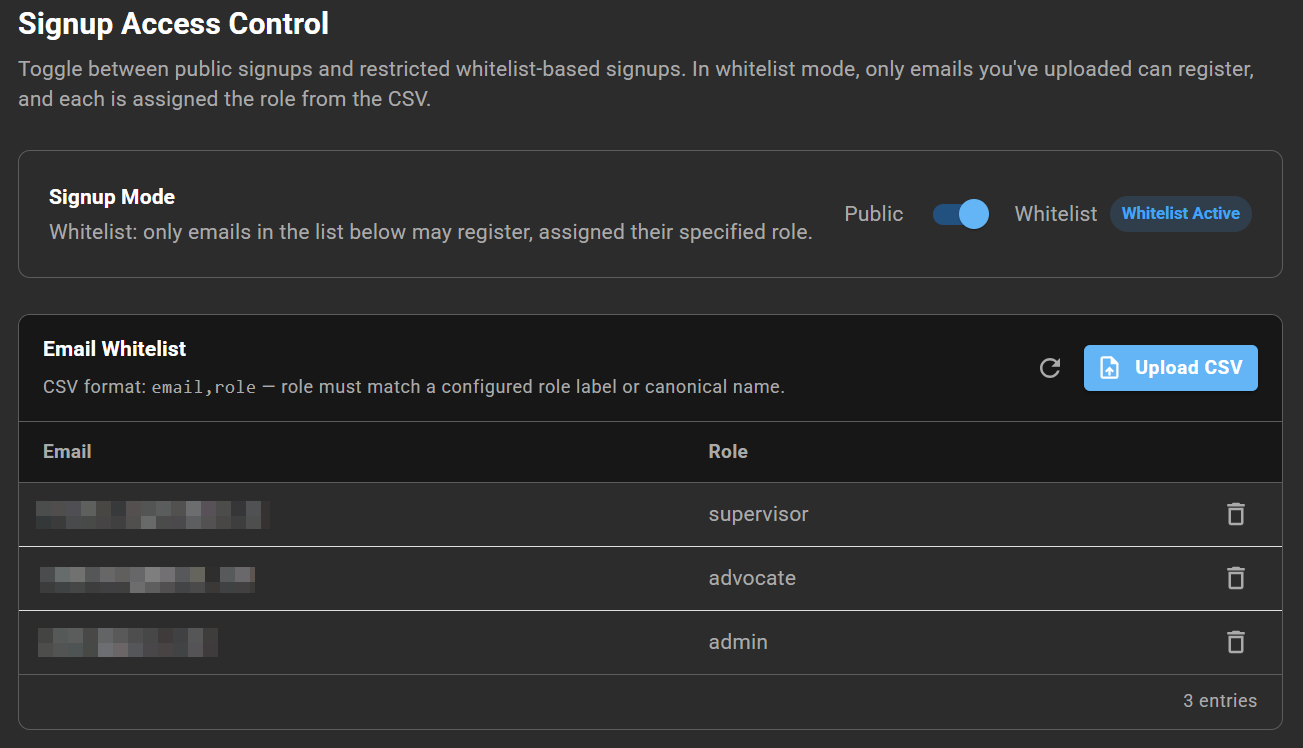
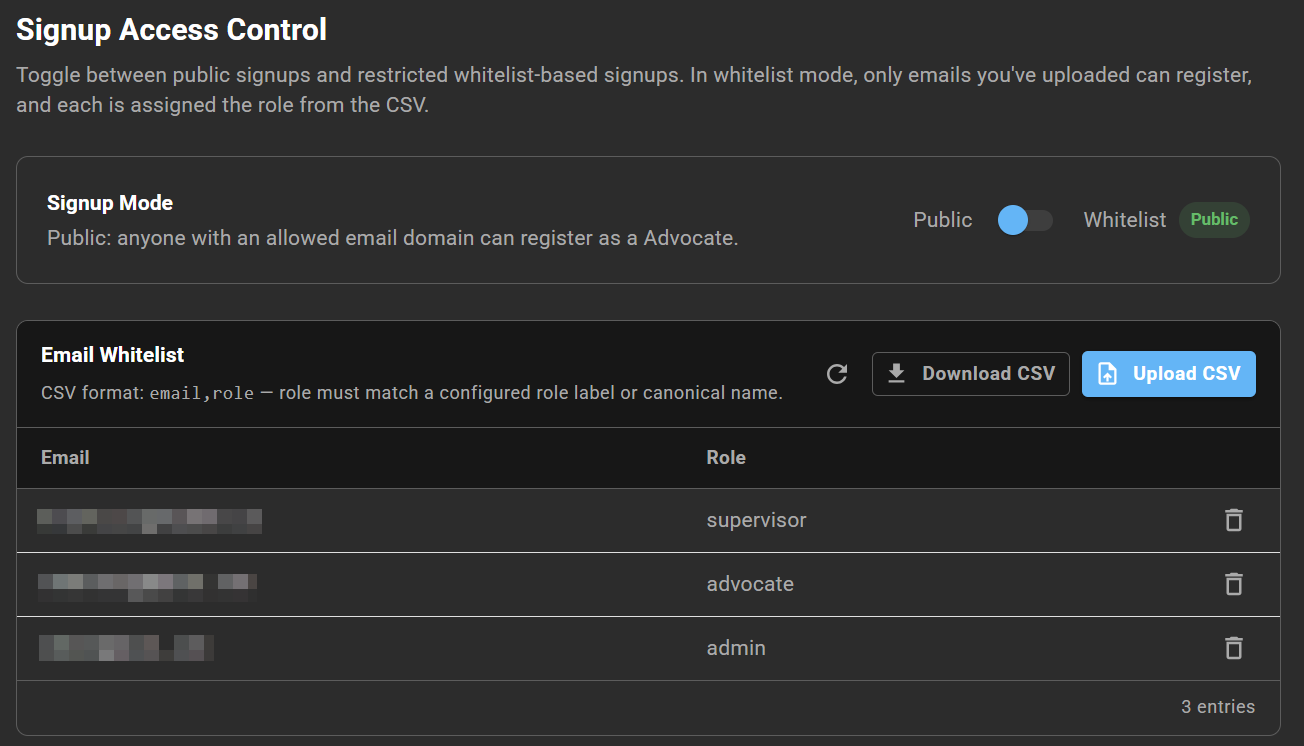
download csv

diff --git a/frontend/src/pages/Admin/AdminWhitelist.tsx b/frontend/src/pages/Admin/AdminWhitelist.tsx
@@ -21,7 +21,9 @@ import {
 } from "@mui/material";
 import DeleteOutlineIcon from "@mui/icons-material/DeleteOutline";
 import UploadFileIcon from "@mui/icons-material/UploadFile";
+import DownloadIcon from "@mui/icons-material/Download";
 import RefreshIcon from "@mui/icons-material/Refresh";
+import TablePagination from "@mui/material/TablePagination";
 import AdminHeader from "../../components/AdminHeader";
 import { fetchAuthSession } from "aws-amplify/auth";
 
@@ -50,6 +52,10 @@ const AdminWhitelist = () => {
     severity: "success" | "error" | "warning";
   }>({ open: false, message: "", severity: "success" });
   const fileInputRef = useRef<HTMLInputElement>(null);
+
+  const PAGE_THRESHOLD = 50;
+  const ROWS_PER_PAGE = 25;
+  const [page, setPage] = useState(0);
 
   const getToken = async () => {
     const session = await fetchAuthSession();
@@ -117,6 +123,7 @@ const AdminWhitelist = () => {
       );
       const data = await res.json();
       setEntries(data.entries || []);
+      setPage(0);
     } catch (err) {
       console.error("Failed to load whitelist:", err);
     } finally {
@@ -211,6 +218,20 @@ const AdminWhitelist = () => {
     fetchSignupMode();
     fetchWhitelist();
   }, [fetchSignupMode, fetchWhitelist]);
+
+  const handleDownloadCsv = () => {
+    if (entries.length === 0) return;
+    const header = "email,role";
+    const rows = entries.map((e) => `${e.email},${e.uploaded_label || e.canonical_role}`);
+    const csv = [header, ...rows].join("\n");
+    const blob = new Blob([csv], { type: "text/csv;charset=utf-8;" });
+    const url = URL.createObjectURL(blob);
+    const a = document.createElement("a");
+    a.href = url;
+    a.download = `whitelist-${new Date().toISOString().slice(0, 10)}.csv`;
+    a.click();
+    URL.revokeObjectURL(url);
+  };
 
   const roleColor = (role: string) => {
     switch (role) {
@@ -362,6 +383,23 @@ const AdminWhitelist = () => {
                   style={{ display: "none" }}
                   onChange={handleFileChange}
                 />
+                {entries.length > 0 && (
+                  <Button
+                    variant="outlined"
+                    size="small"
+                    startIcon={<DownloadIcon />}
+                    onClick={handleDownloadCsv}
+                    sx={{
+                      color: "var(--text-secondary)",
+                      borderColor: "var(--border)",
+                      textTransform: "none",
+                      fontWeight: "bold",
+                      "&:hover": { borderColor: "var(--text-secondary)" },
+                    }}
+                  >
+                    Download CSV
+                  </Button>
+                )}
                 <Button
                   variant="contained"
                   size="small"
@@ -416,7 +454,10 @@ const AdminWhitelist = () => {
                       </TableCell>
                     </TableRow>
                   ) : (
-                    entries.map((entry) => {
+                    (entries.length > PAGE_THRESHOLD
+                      ? entries.slice(page * ROWS_PER_PAGE, page * ROWS_PER_PAGE + ROWS_PER_PAGE)
+                      : entries
+                    ).map((entry) => {
                       const { bg, fg } = roleColor(entry.canonical_role);
                       return (
                         <TableRow
@@ -458,7 +499,20 @@ const AdminWhitelist = () => {
 
             {/* Footer */}
             {entries.length > 0 && (
-              <Box sx={{ p: 1.5, borderTop: "1px solid var(--border)", display: "flex", justifyContent: "flex-end" }}>
+              <Box sx={{ p: 1.5, borderTop: "1px solid var(--border)", display: "flex", justifyContent: "space-between", alignItems: "center" }}>
+                {entries.length > PAGE_THRESHOLD ? (
+                  <TablePagination
+                    component="div"
+                    count={entries.length}
+                    page={page}
+                    onPageChange={(_e, newPage) => setPage(newPage)}
+                    rowsPerPage={ROWS_PER_PAGE}
+                    rowsPerPageOptions={[ROWS_PER_PAGE]}
+                    sx={{ color: "var(--text-secondary)", "& .MuiTablePagination-toolbar": { minHeight: 36 } }}
+                  />
+                ) : (
+                  <Box />
+                )}
                 <Typography variant="caption" sx={{ color: "var(--text-secondary)" }}>
                   {entries.length} {entries.length === 1 ? "entry" : "entries"}
                 </Typography>

diff --git a/frontend/src/components/Admin/SignupAccessConfig.tsx b/frontend/src/components/Admin/SignupAccessConfig.tsx
@@ -22,6 +22,8 @@ import {
 import DeleteOutlineIcon from "@mui/icons-material/DeleteOutline";
 import UploadFileIcon from "@mui/icons-material/UploadFile";
 import RefreshIcon from "@mui/icons-material/Refresh";
+import DownloadIcon from "@mui/icons-material/Download";
+import TablePagination from "@mui/material/TablePagination";
 import { fetchAuthSession } from "aws-amplify/auth";
 import { useRoleLabels } from "../../contexts/RoleLabelsContext";
 
@@ -52,6 +54,10 @@ const SignupAccessConfig = () => {
     severity: "success" | "error" | "warning";
   }>({ open: false, message: "", severity: "success" });
   const fileInputRef = useRef<HTMLInputElement>(null);
+
+  const PAGE_THRESHOLD = 50;
+  const ROWS_PER_PAGE = 25;
+  const [page, setPage] = useState(0);
 
   const getToken = async () => {
     const session = await fetchAuthSession();
@@ -119,6 +125,7 @@ const SignupAccessConfig = () => {
       );
       const data = await res.json();
       setEntries(data.entries || []);
+      setPage(0);
     } catch (err) {
       console.error("Failed to load whitelist:", err);
     } finally {
@@ -211,6 +218,20 @@ const SignupAccessConfig = () => {
     fetchSignupMode();
     fetchWhitelist();
   }, [fetchSignupMode, fetchWhitelist]);
+
+  const handleDownloadCsv = () => {
+    if (entries.length === 0) return;
+    const header = "email,role";
+    const rows = entries.map((e) => `${e.email},${e.uploaded_label || e.canonical_role}`);
+    const csv = [header, ...rows].join("\n");
+    const blob = new Blob([csv], { type: "text/csv;charset=utf-8;" });
+    const url = URL.createObjectURL(blob);
+    const a = document.createElement("a");
+    a.href = url;
+    a.download = `whitelist-${new Date().toISOString().slice(0, 10)}.csv`;
+    a.click();
+    URL.revokeObjectURL(url);
+  };
 
   return (
     <Box sx={{ display: "flex", flexDirection: "column", gap: 3 }}>
@@ -329,6 +350,24 @@ const SignupAccessConfig = () => {
               style={{ display: "none" }}
               onChange={handleFileChange}
             />
+            {entries.length > 0 && (
+              <Button
+                variant="outlined"
+                size="small"
+                startIcon={<DownloadIcon fontSize="small" />}
+                onClick={handleDownloadCsv}
+                sx={{
+                  color: "var(--text-secondary)",
+                  borderColor: "var(--border)",
+                  textTransform: "none",
+                  fontWeight: "bold",
+                  fontSize: "0.8rem",
+                  "&:hover": { borderColor: "var(--text-secondary)" },
+                }}
+              >
+                Download CSV
+              </Button>
+            )}
             <Button
               variant="contained"
               size="small"
@@ -390,7 +429,10 @@ const SignupAccessConfig = () => {
                   </TableCell>
                 </TableRow>
               ) : (
-                entries.map((entry) => {
+                (entries.length > PAGE_THRESHOLD
+                  ? entries.slice(page * ROWS_PER_PAGE, page * ROWS_PER_PAGE + ROWS_PER_PAGE)
+                  : entries
+                ).map((entry) => {
                   // Show the configured label name — fall back to canonical role if label not set
                   const displayLabel = entry.uploaded_label || singular(entry.canonical_role);
                   return (
@@ -427,7 +469,20 @@ const SignupAccessConfig = () => {
         </TableContainer>
 
         {entries.length > 0 && (
-          <Box sx={{ px: 2, py: 1, borderTop: "1px solid var(--border)", display: "flex", justifyContent: "flex-end" }}>
+          <Box sx={{ px: 2, py: 1, borderTop: "1px solid var(--border)", display: "flex", justifyContent: "space-between", alignItems: "center" }}>
+            {entries.length > PAGE_THRESHOLD ? (
+              <TablePagination
+                component="div"
+                count={entries.length}
+                page={page}
+                onPageChange={(_e, newPage) => setPage(newPage)}
+                rowsPerPage={ROWS_PER_PAGE}
+                rowsPerPageOptions={[ROWS_PER_PAGE]}
+                sx={{ color: "var(--text-secondary)", "& .MuiTablePagination-toolbar": { minHeight: 36 } }}
+              />
+            ) : (
+              <Box />
+            )}
             <Typography variant="caption" sx={{ color: "var(--text-secondary)" }}>
               {entries.length} {entries.length === 1 ? "entry" : "entries"}
             </Typography>

diff --git a/cdk/lambda/handlers/adminFunction.js b/cdk/lambda/handlers/adminFunction.js
@@ -1480,14 +1480,26 @@ const routes = {
     try {
       const { DynamoDBClient, ScanCommand } = await import("@aws-sdk/client-dynamodb");
       const dynamo = new DynamoDBClient();
-      const result = await dynamo.send(
-        new ScanCommand({ TableName: process.env.WHITELIST_TABLE_NAME }),
-      );
-      const items = (result.Items || []).map((item) => ({
-        email: item.email?.S,
-        canonical_role: item.canonical_role?.S,
-        uploaded_label: item.uploaded_label?.S,
-      }));
+      const items = [];
+      let lastKey = undefined;
+
+      do {
+        const result = await dynamo.send(
+          new ScanCommand({
+            TableName: process.env.WHITELIST_TABLE_NAME,
+            ...(lastKey && { ExclusiveStartKey: lastKey }),
+          }),
+        );
+        for (const item of result.Items || []) {
+          items.push({
+            email: item.email?.S,
+            canonical_role: item.canonical_role?.S,
+            uploaded_label: item.uploaded_label?.S,
+          });
+        }
+        lastKey = result.LastEvaluatedKey;
+      } while (lastKey);
+
       response.statusCode = 200;
       response.body = JSON.stringify({ entries: items, count: items.length });
     } catch (err) {
@@ -1557,10 +1569,39 @@ const routes = {
         validItems.push({ email, canonical_role: canonicalRole, uploaded_label: label });
       }
 
-      // Batch-write to DynamoDB in chunks of 25 (BatchWriteItem limit)
-      const { DynamoDBClient, BatchWriteItemCommand } = await import("@aws-sdk/client-dynamodb");
+      // Replace mode: delete all existing entries, then write new ones
+      const { DynamoDBClient, BatchWriteItemCommand, ScanCommand } = await import("@aws-sdk/client-dynamodb");
       const dynamo = new DynamoDBClient();
+      const tableName = process.env.WHITELIST_TABLE_NAME;
       const CHUNK_SIZE = 25;
+
+      // Step 1: Scan and delete all existing entries
+      let lastKey = undefined;
+      do {
+        const scanResult = await dynamo.send(
+          new ScanCommand({
+            TableName: tableName,
+            ProjectionExpression: "email",
+            ...(lastKey && { ExclusiveStartKey: lastKey }),
+          }),
+        );
+        const items = scanResult.Items || [];
+        lastKey = scanResult.LastEvaluatedKey;
+
+        for (let i = 0; i < items.length; i += CHUNK_SIZE) {
+          const chunk = items.slice(i, i + CHUNK_SIZE);
+          const deleteRequests = chunk.map((item) => ({
+            DeleteRequest: { Key: { email: item.email } },
+          }));
+          await dynamo.send(
+            new BatchWriteItemCommand({
+              RequestItems: { [tableName]: deleteRequests },
+            }),
+          );
+        }
+      } while (lastKey);
+
+      // Step 2: Write new entries in batches of 25
       let processed = 0;
 
       for (let i = 0; i < validItems.length; i += CHUNK_SIZE) {
@@ -1576,7 +1617,7 @@ const routes = {
         }));
         await dynamo.send(
           new BatchWriteItemCommand({
-            RequestItems: { [process.env.WHITELIST_TABLE_NAME]: putRequests },
+            RequestItems: { [tableName]: putRequests },
           }),
         );
         processed += chunk.length;
